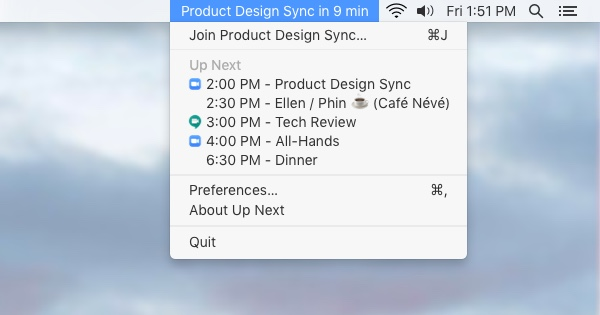
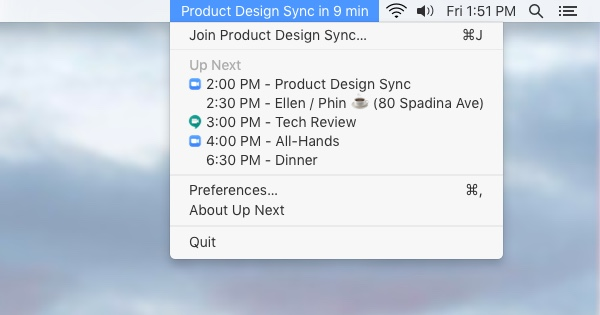
coffee

Changed region(s): [[0.63, 0.0571, 0.84, 0.8571], [0.72, 0.5714, 0.75, 0.6286]]

diff --git a/style.css b/style.css
@@ -174,8 +174,8 @@ main {
 #dropdown {
   position: absolute;
   top: 18px;
-  right: 227px;
-  width: 328px;
+  right: 203px;
+  width: 352px;
   height: 257px;
   background-image: url(./assets/event-dropdown@2x.png);
   background-size: contain;
